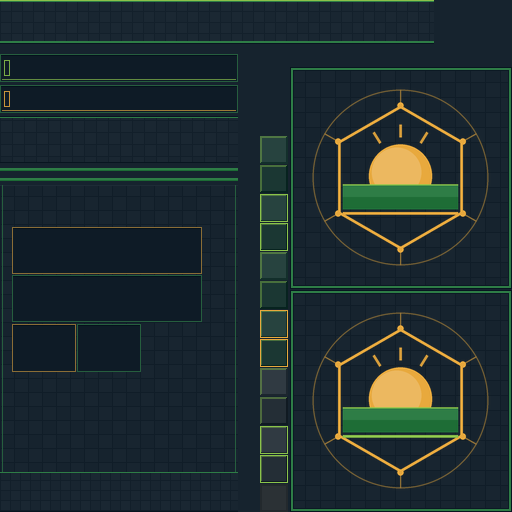
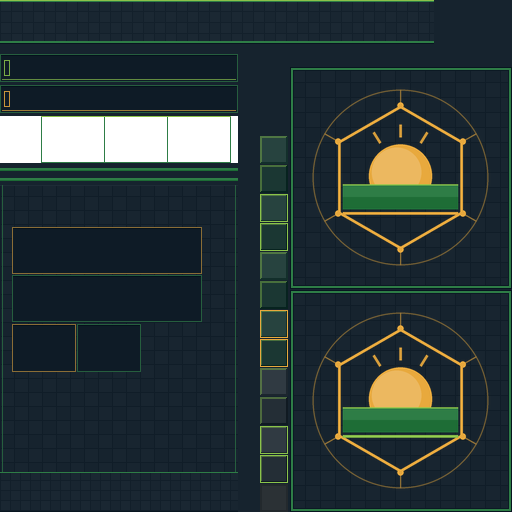
Fix empty build menu: make background-iconrow overlay transparent (issue #42)
Issue #41's chrome rewrite filled background-iconrow (0,116,238,47) with an
opaque panel. That region is the PALETTE_FOREGROUND overlay, drawn on top of
the production icons once per row, so the fill hid every buildable — the
build menu rendered empty even though hover/click still hit the icons.

Redraw the region as a transparent frame overlay: cleared to alpha 0 with
only thin cell frames aligned to the three ProductionPalette icon columns.
Icons show through again and the category tabs read cleanly in front. Only
sidebar.png changes; no YAML or chrome.yaml rects touched.

Claude-Session: https://claude.ai/code/session_01XYT6B9GyRvtLosEBUpzxhD

Changed region(s): [[0.0, 0.2188, 0.4688, 0.3438]]

diff --git a/mods/sungrid/uibits/gen_chrome.py b/mods/sungrid/uibits/gen_chrome.py
@@ -276,11 +276,19 @@ def gen_sidebar():
         d.line((2, y + 25, 235, y + 25), fill=mix(accent, PANEL, 0.35))
         d.rectangle((4, y + 6, 9, y + 21), outline=mix(accent, PANEL, 0.15), width=1)
 
-    # production tab row (0,116,238,47)
-    pv_grid(im, 0, 116, 238, 47, base=lift(PANEL, 2), cell=12, line=-6, alt=2)
-    d.line((0, 116, 237, 116), fill=BLACKLINE)
-    d.line((0, 117, 237, 117), fill=GREEN_MID)
-    d.line((0, 162, 237, 162), fill=BLACKLINE)
+    # background-iconrow (0,116,238,47): this is the PALETTE_FOREGROUND overlay
+    # drawn ON TOP of the production icons (its widget is listed after
+    # ProductionPalette in ingame-player.yaml), tiled once per icon row. It MUST
+    # stay transparent over the icon cells — a solid fill here hides every
+    # buildable and empties the build menu. Draw only thin cell frames; leave
+    # the cell interiors fully transparent so the icons underneath show through.
+    ir_y, ir_h = 116, 47
+    im.paste((0, 0, 0, 0), (0, ir_y, 238, ir_y + ir_h))
+    # icon columns align with ProductionPalette (X:42 in the widget, 62px cells,
+    # 1px margin -> column origins 42, 105, 168)
+    for cx in (42, 105, 168):
+        d.rectangle((cx - 1, ir_y, cx + 62, ir_y + ir_h - 1), outline=GREEN_MID, width=1)
+        d.line((cx - 1, ir_y, cx + 62, ir_y), fill=GREEN_ACCENT)  # lit top edge
 
     # thin trims: background-bottom (0,166,238,8), observer-bottom (0,176,238,8)
     for y in (166, 176):

diff --git a/docs/BACKLOG.md b/docs/BACKLOG.md
@@ -1071,3 +1071,15 @@ Fix: a dedicated `mods/sungrid/bits/reskin_cursor_palette.py` (adapted from `res
 **Phase:** 6 (still programmatic first-pass art — a human-designer pass remains open follow-up, but the "derived from stock RA art" status is now fully closed for chrome).
 
 **Definition of done:** `python3 mods/sungrid/uibits/gen_chrome.py` reproduces every file; no output derives from stock pixels; all `chrome.yaml` rects unchanged; `PLACEHOLDER_ART.md` rewritten to describe the new state.
+
+### 42. Chrome redesign (issue #41) emptied the build menu: opaque `background-iconrow` overlay hid every production icon — FIXED
+
+**Found in a live playtest** right after issue #41 merged: the production/build palette rendered completely empty (nothing buildable visible), though hovering and clicking the invisible slots still worked — a dead giveaway that the icons were present but painted over. The category-tab navigation strip also read as "overlapping"/embedded in a solid green panel.
+
+**Root cause:** in `mods/sungrid/chrome/ingame-player.yaml`, the `PALETTE_FOREGROUND` widget (which draws the `background-iconrow` region) is listed *after* `ProductionPalette` inside `SIDEBAR_PRODUCTION`, so the engine renders it *on top of* the buildable icons, once per icon row. In stock RA that overlay is transparent over the icon cells (it only supplies thin cell frames). Issue #41's `gen_chrome.py` rewrite mistook `background-iconrow` (`0,116,238,47`) for a "production tab row" background and filled it with an opaque photovoltaic panel — so every row's overlay completely covered the icons beneath it. The tabs (drawn last, in front) stayed visible but looked embedded in the opaque fill.
+
+**Fix (one region in `mods/sungrid/uibits/gen_chrome.py`, `sidebar.png` regenerated):** `background-iconrow` is now cleared to fully transparent and draws only thin 1px cell frames (green with a lit top edge) aligned to the three `ProductionPalette` icon columns (X:42/105/168, 62px cells). Icons show through cleanly again; the tabs sit in front on their own backing. No YAML, no `chrome.yaml` rects, no other region touched — verified by compositing the exact widget stack (iconbg backing → icons → iconrow overlay → tabs) offline.
+
+**Labels:** `type:bug`, `area:chrome`
+
+**Phase:** 6 (issue #41 follow-up).